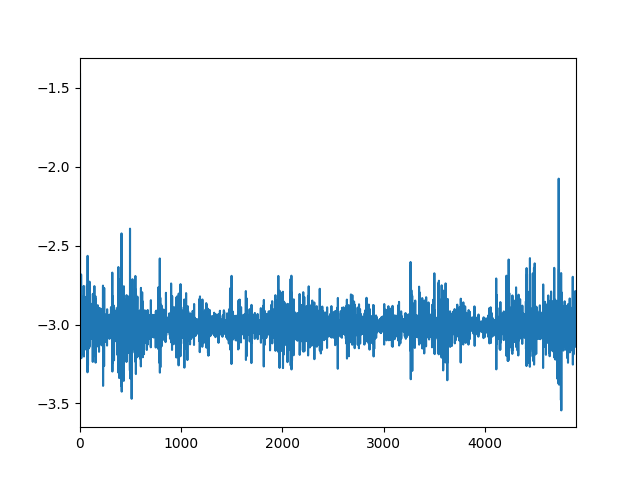
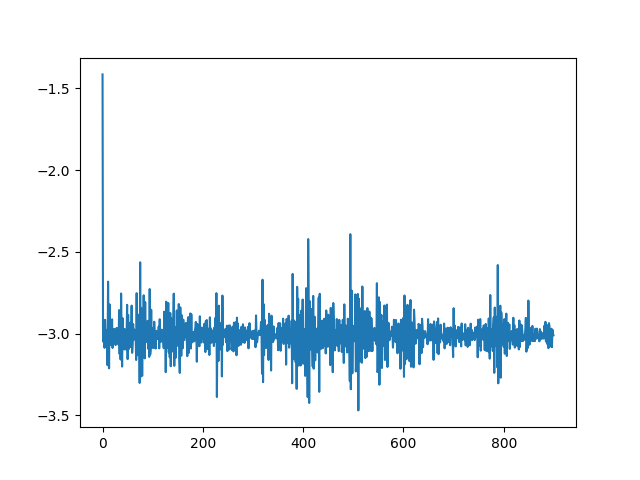
Parallelizing attempt complete

diff --git a/models.py b/models.py
@@ -1,6 +1,7 @@
 from statsmodels.tsa.arima_model import ARIMA
 import numpy as np
 from joblib import Parallel, delayed
+import warnings
 
 def _evaluate_single(arg, **kwarg):
     return ARIMAModel.evaluate_single(*arg, **kwarg)
@@ -24,19 +25,7 @@ class ARIMAModel:
             endog_data = endog_data.flatten()
             return self.evaluate_single(endog_data, start_pt)
         else:
-            results_true = None
-            results_predicted = None
-            result = self.parallel_evaluate_single(endog_data, start_pt, endog_data.shape[1])
-            # for i in range(endog_data.shape[1]):
-            #     ytrue, ypred = self.evaluate_single(endog_data[:,i], start_pt)
-            #     if results_true is None:
-            #         results_true = ytrue
-            #         results_predicted = ypred
-            #     else:
-            #         results_true = np.vstack((results_true, ytrue))
-            #         results_predicted = np.vstack((results_predicted, ypred))
-            return result
-            # return results_true.T, results_predicted.T
+            return self.parallel_evaluate_single(endog_data, start_pt, endog_data.shape[1])
 
     def forecast(self, endog_history, steps_ahead):
         num_dims = len(endog_history.shape)
@@ -49,10 +38,13 @@ class ARIMAModel:
             return np.vstack(results)
 
     def parallel_evaluate_single(self, endog_data, start_pt, num_stocks):
-        results = Parallel(n_jobs=-1, backend="threading") \
-            (delayed(_evaluate_single)(i, endog_data[:, i], start_pt) for i in zip([self] * len(num_stocks), num_stocks))
-        return results
-
+        results = Parallel(n_jobs=self.num_jobs, backend="threading",verbose=4) \
+            (delayed(_evaluate_single)(i) for i in zip([self] * num_stocks,
+                                                       [endog_data[:, s] for s in range(num_stocks)],
+                                                       [start_pt]*num_stocks))
+        ytrue_stacked = [results[i][0] for i in range(num_stocks)]
+        ypred_stacked = [results[i][1] for i in range(num_stocks)]
+        return np.vstack(ytrue_stacked).T, np.vstack(ypred_stacked).T
 
     def evaluate_single(self, endog_data, start_pt):
         if self.bptt is not None:
@@ -61,8 +53,10 @@ class ARIMAModel:
         num_samples = len(endog_data)
         for t in range(start_pt, num_samples):
             endog_history = (endog_data[:t] if self.bptt is None else endog_data[t - self.bptt:t])
-            model = ARIMA(endog_history, order=self.order).fit(disp=0)
-            predicted_forecast = np.append(predicted_forecast, model.forecast()[0])
+            with warnings.catch_warnings():
+                warnings.simplefilter("ignore")
+                model = ARIMA(endog_history, order=self.order).fit(disp=0)
+                predicted_forecast = np.append(predicted_forecast, model.forecast()[0])
         true_forecast = endog_data[start_pt:]
         return true_forecast, predicted_forecast
 

diff --git a/lab.py b/lab.py
@@ -5,13 +5,12 @@ import numpy as np
 
 if __name__=='__main__':
     dp = DataPreprocess()
-    for train_iter, test_iter in dp.load_train_test(asset_name=["BTC_XEM", "BTC_LTC"],feature_type='close'):
+    for train_iter, test_iter in dp.load_train_test(asset_name=["BTC_XEM", "BTC_LTC", "BTC_BTCD"],feature_type='close'):
         ts_data = 1000 * train_iter.values
-        model = ARIMAModel(1, 1, 0, 100)
-        ytrue, ypred = model.evaluate(ts_data[:5000], 100)
+        model = ARIMAModel(1, 1, 0, -1, 100)
+        ytrue, ypred = model.evaluate(ts_data[:1000], 100)
         weights = model.compute_allocation_weights(ypred, ytrue)
         assert (len(ytrue) == len(ypred))
         true_change = ytrue[1:]/ytrue[:-1]
         m = get_metrics()
         m.apv_multiple_asset(true_change, weights, get_graph=True)
-        exit(0)

diff --git a/get_metrics.py b/get_metrics.py
@@ -12,7 +12,6 @@ class get_metrics:
         ts = pd.Series(y,name=name)
         ts.plot()
         fig.savefig(name)
-        # plt.show()
 
     def apv_single_asset(self, y_true, weights, pv_0 = 1, get_graph = False):
         """
@@ -118,7 +117,7 @@ class get_metrics:
             else:
                 drawdowns.append((trough - peak) / peak)
                 peak = del_pv[idx]
-        return max(drawdowns[1:])
+        return max(drawdowns[1:]) if len(drawdowns) > 0 else 0.0
 
 """
 if __name__ == "__main__":
